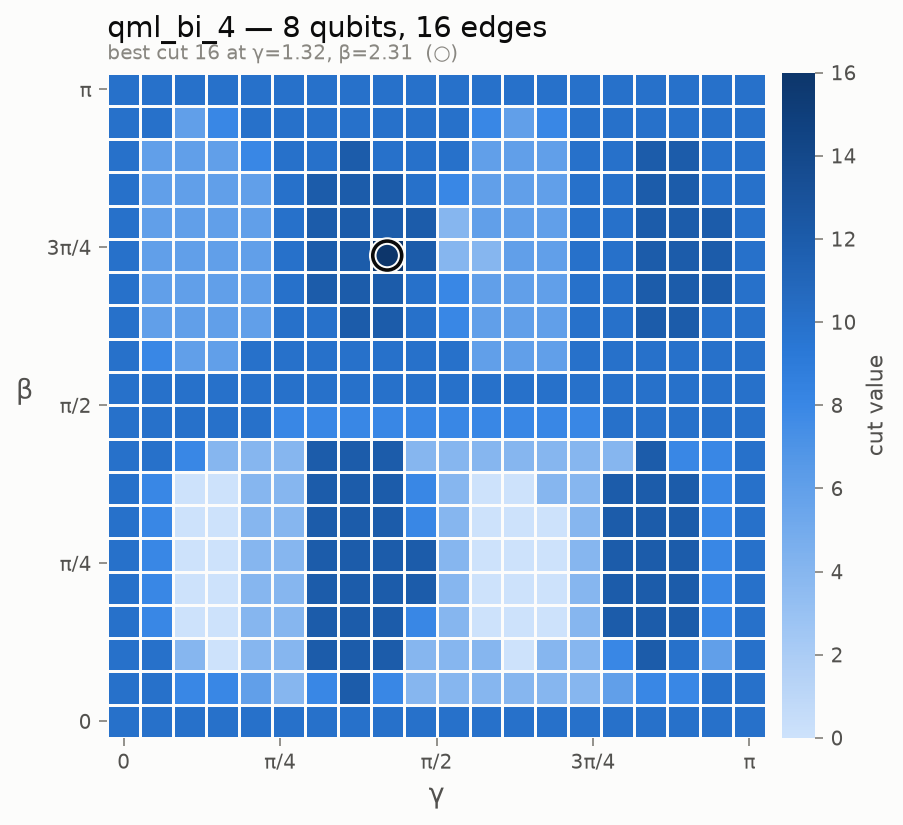
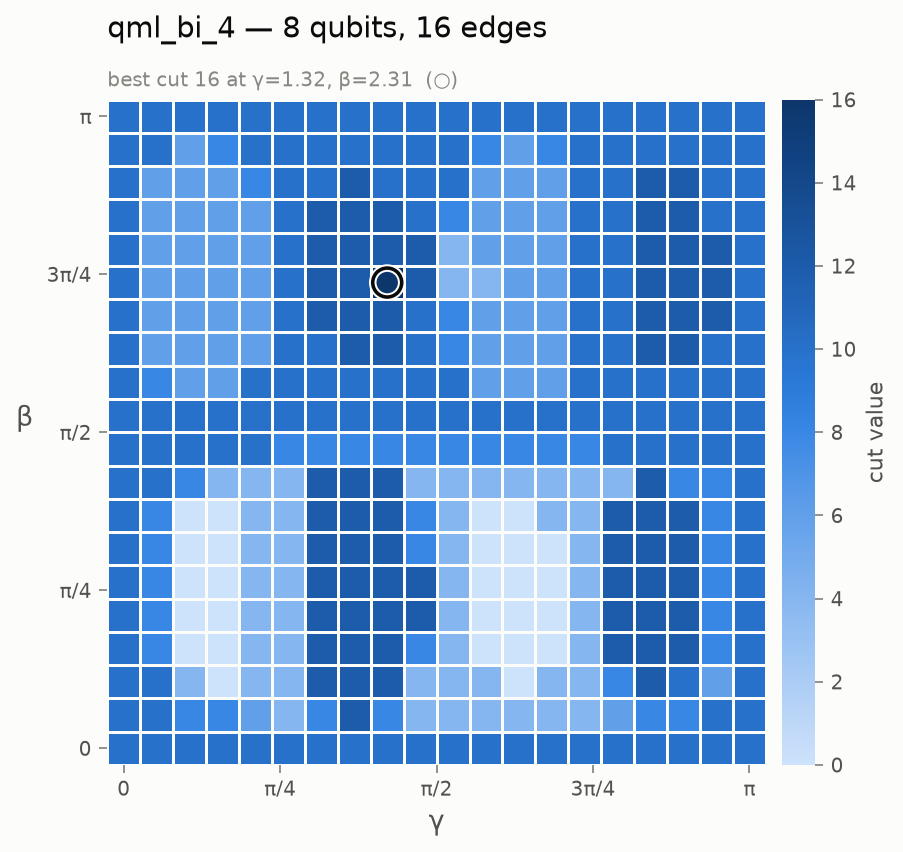
Improve heatmap tool defaults and title spacing
Write the heatmap next to its result log by default instead of
silently overwriting the tracked README gallery (use -o for that), and
add breathing room between title and subtitle. Gallery regenerated.

diff --git a/scripts/plot_heatmap.py b/scripts/plot_heatmap.py
@@ -4,6 +4,10 @@ Reads a raw simulator output file (results/<graph>/<shots>_<steps>_<run>),
 pivots the grid into a matrix and draws the cut value found at every
 (gamma, beta) sample, with the best parameter point ringed.
 
+By default the image is written next to the result file
+(results/qml_bi_10/1_20_0 -> results/qml_bi_10/1_20_0.png); pass -o to
+regenerate the README gallery figures in docs/figures/heatmaps/.
+
 Usage:
     python3 scripts/plot_heatmap.py results/qml_bi_10/1_20_0 [-o out.png]
 """
@@ -46,7 +50,7 @@ def main():
     parser = argparse.ArgumentParser(description=__doc__)
     parser.add_argument("result_file", help="raw simulator output file")
     parser.add_argument("-o", "--output", default=None,
-                        help="output image path (default: docs/figures/heatmaps/<graph>.png)")
+                        help="output image path (default: <result_file>.png)")
     args = parser.parse_args()
 
     samples, meta = parse_result(args.result_file)
@@ -86,13 +90,13 @@ def main():
 
     n = int(meta["qubits"])
     ax.set_title(f"{meta['graph']} — {n} qubits, {int(meta['edges'])} edges",
-                 color=INK_PRIMARY, fontsize=13, pad=16, loc="left")
+                 color=INK_PRIMARY, fontsize=13, pad=28, loc="left")
     ax.text(0, 1.02, f"best cut {int(meta['best_cut'])} at "
             f"γ={meta['best_gamma']:.2f}, β={meta['best_beta']:.2f}"
             f"  (○)",
             transform=ax.transAxes, color=INK_MUTED, fontsize=9)
 
-    out = args.output or f"docs/figures/heatmaps/{meta['graph']}.png"
+    out = args.output or f"{args.result_file}.png"
     Path(out).parent.mkdir(parents=True, exist_ok=True)
     fig.savefig(out, dpi=160, bbox_inches="tight", facecolor=SURFACE)
     print(f"wrote {out}")
